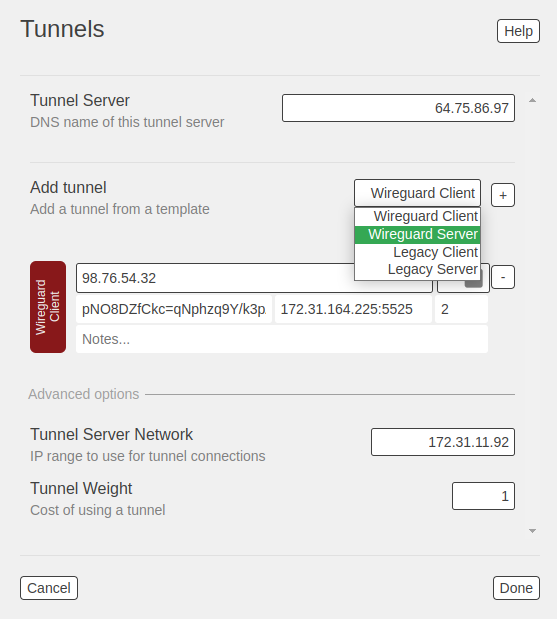
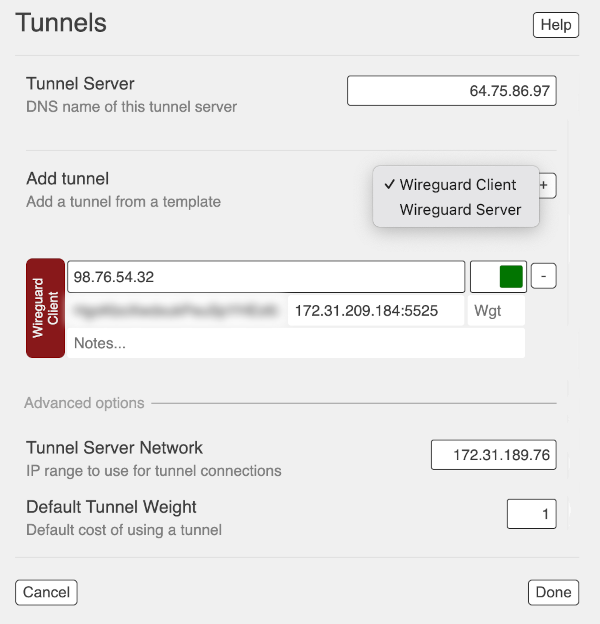
update tunnels info (#479)

diff --git a/arednGettingStarted/node_admin.rst b/arednGettingStarted/node_admin.rst
@@ -759,14 +759,14 @@ In order to run your node as either a *Tunnel Server* or *Tunnel Client*, you wi
 
 If you are using *Mikrotik hAP ac* or *GL.iNET* devices, those multiport nodes have the appropriate VLANs preconfigured in the AREDN® firmware. If you are using any other type of node, then you will need to configure a separate VLAN-capable switch. Set your VLAN-capable network switch to appropriately tag traffic from the Internet with *VLAN 1* before sending it to your node. This allows your node to properly identify the traffic as coming from the Internet to its WAN interface. See the equipment manual for your smart switch to determine how to configure VLAN settings.
 
-**Tunnels** allows you to configure connections for tunneling protocols (Wireguard & Legacy *vtun*) as well as tunnel roles (Client & Server). The legacy *vtun* protocol provides an *unencrypted* :abbr:`TCP (Transmission Control Protocol)` connection over the Internet, while the Wireguard tunneling protocol provides an *encrypted* :abbr:`UDP (User Datagram Protocol)` connection. Wireguard is preferred since it is more efficient and secure, and it only encrypts the traffic as it traverses the public Internet so no encrypted traffic will be sent via radio in compliance with FCC Part 97 requirements.
+**Tunnels** allows you to configure connections for tunnel roles (Client & Server). The Wireguard tunneling protocol provides an *encrypted* :abbr:`UDP (User Datagram Protocol)` connection that is both efficient and secure. It only encrypts the traffic as it traverses the public Internet, so no encrypted traffic will be sent via radio in compliance with FCC Part 97 requirements.
 
-.. attention:: AREDN® is migrating to a new routing protocol called Babel. Unfortunately the legacy tunneling protocol is not compatible with Babel, so legacy tunnels should be migrated to Wireguard. If your node has no existing legacy tunnels, then the **Tunnels** view will not display the legacy tunnels option.
+.. attention:: AREDN® is migrating to a new routing protocol called Babel. Unfortunately the older legacy *vtun* protocol is not compatible with Babel, so legacy tunnels should be migrated to Wireguard as soon as possible.
 
 Networking for Tunnel Servers
   In order for remote tunnel clients to reach your tunnel server node, your Internet-connected firewall must allow that traffic to enter your network and it must also forward that traffic to your tunnel server node. In order for your router/firewall to have a consistent way to forward traffic to your node, it is best practice to set a static IP address on your tunnel server node's WAN interface or to reserve its DHCP IP address in your router.
 
-  On your Internet-connected router/firewall set the firewall rules to permit TCP/UDP traffic from the Internet on an appropriate range of ports. The starting port should be ``5525``, which will provide for one Wireguard tunnel client connection as well as multiple Legacy tunnel client connections. If you want to allow up to 10 Wireguard tunnel links (for example), you would permit UDP traffic on the range of ports between ``5525-5534``. Then configure a port forwarding rule to send any traffic from the Internet on your range of ports to the IP address of your node's WAN interface.
+  On your Internet-connected router/firewall set the firewall rules to permit UDP traffic from the Internet on an appropriate range of ports. The starting port should be ``5525``, which will provide for one Wireguard tunnel client connection. If you want to allow up to 10 Wireguard tunnel links (for example), you would permit UDP traffic on the range of ports between ``5525-5534``. Then configure a port forwarding rule to send any traffic from the Internet on your range of ports to the IP address of your node's WAN interface.
 
 Tunnel settings
 +++++++++++++++
@@ -785,7 +785,7 @@ Tunnel Server
 Add Tunnel
 ++++++++++
 
-To add a tunnel connection, click in the field at the right to select from the dropdown list the type of tunnel you want to create. The newer Wireguard protocol is superseding the legacy *vtun* protocol because it is more efficient and secure. Be aware that without proper time synchronization, Wireguard will not establish tunnels. If you plan to use Wireguard tunneling, make sure that an NTP or GPS time source is reachable at boot time so that the key exchange between the client and server will happen correctly. If mesh based NTP servers are available, ask the owners to advertise them as services to ensure that time synchronization happens across your mesh network even if the Internet is not available. Review the **Local Services** section above for instructions on advertising a local NTP server.
+To add a tunnel connection, click in the field at the right to select from the dropdown list the type of tunnel you want to create. Be aware that without proper time synchronization, Wireguard will not establish tunnels. Make sure that an NTP or GPS time source is reachable at boot time so that the key exchange between the client and server will happen correctly. If mesh based NTP servers are available, ask the owners to advertise them as services to ensure that time synchronization happens across your mesh network even if the Internet is not available. Review the **Local Services** section above for instructions on advertising a local NTP server.
 
 For each tunnel definition there is a *Wgt* or tunnel weight field. The global default tunnel weight is configured under *Advanced Options* as described below, but you can override this value on a per tunnel basis. Leave this field empty to accept the global default, or enter a tunnel weight to override the default if you desire. Each tunnel definition also has a *Notes* field in which you may enter helpful notes about the tunnel link.
 
@@ -794,12 +794,6 @@ Wireguard Client
 
 Wireguard Server
   Select *Wireguard Server* from the dropdown list and click the [+] icon. In the ``Node Name`` field enter the exact node name of the client node that will be allowed to connect to your tunnel server. Do not include the "local.mesh" suffix. The security key, network, and port settings are automatically generated and displayed. Click the *copy* icon to the right of the *Notes* field to display all of the connection settings in a new web page. These settings can then be copied and pasted into an email or text file to provide the credentials to the owner of the client node.
-
-Legacy Client
-  Select *Legacy Client* from the dropdown list and click the [+] icon. For tunnel client credentials, contact the Amateur Radio operator who controls the tunnel server you want to connect to and request client credentials by providing your specific node name. The tunnel server administrator will send you the public IP or hostname for the tunnel server field, the password you are to use, and the network IP address & port for your client node. If your client credentials were provided using the method described for servers, you can highlight and copy the entire set of values, click into one of the fields on your tunnel client row, and when you paste into one of the fields then all of the credentials will be automatically entered into the correct fields for you. Otherwise, you can manually enter these values into the appropriate fields on your node.
-
-Legacy Server
-  Select *Legacy Server* from the dropdown list and click the [+] icon. In the ``Node Name`` field enter the exact node name of the client node that will be allowed to connect to your tunnel server. Do not include the "local.mesh" suffix. The network IP address is automatically generated and displayed. A default password will appear in the *Password* field, but you may change it as desired. Typically passwords may contain the characters ``a-z``, ``A-Z``, ``0-9``, period ``.``, dash ``-``, underscore ``_``, exclamation ``!``, and tilde ``~``. Avoid Linux-reserved characters, including but not limited to ``#``, ``$``, ``&``, ``*``, ``<``, ``>``. Click the *copy* icon to the right of the *Notes* field to display all of the connection settings in a new web page. These settings can then be copied and pasted into an email or text file to provide the credentials to the owner of the client node.
 
 The switch on the right is ``enabled`` by default, but it appears gray until the tunnel connection is established, at which time it will be green.
 

diff --git a/arednGettingStarted/node_status.rst b/arednGettingStarted/node_status.rst
@@ -168,8 +168,7 @@ Ethernet Ports & Xlinks
   If you have a multiport node or one which supports xlinks, then the *Ethernet Ports & Xlinks* section will be displayed. This shows the number of Ethernet ports on the device, as well as how many of them are actively in use. You will also see the number of xlinks that you have defined on this node.
 
 Tunnels section
-  This section displays statistics on any tunnel connections you may have on your node. The *Wireguard* section shows information for Wireguard tunnels, while the *Legacy* section shows information for the older *vtun* tunnels. Counts are displayed for active / allocated tunnel client connections as well as for active / allocated tunnel server connections on your node.
-
+  This section displays statistics on any tunnel connections you may have on your node. Counts are displayed for active / allocated tunnel client connections as well as for active / allocated tunnel server connections on your node.
 
 .. |icon1| image:: ../_icons/login.png
   :alt: Normal user view
@@ -193,7 +192,7 @@ Tunnels section
   :alt: RF link
 
 .. |icon8| image:: ../_icons/globe.png
-  :alt: Legacy tunnel link
+  :alt: Tunnel link
 
 .. |icon9| image:: ../_icons/twoarrow.png
   :alt: DTD link
